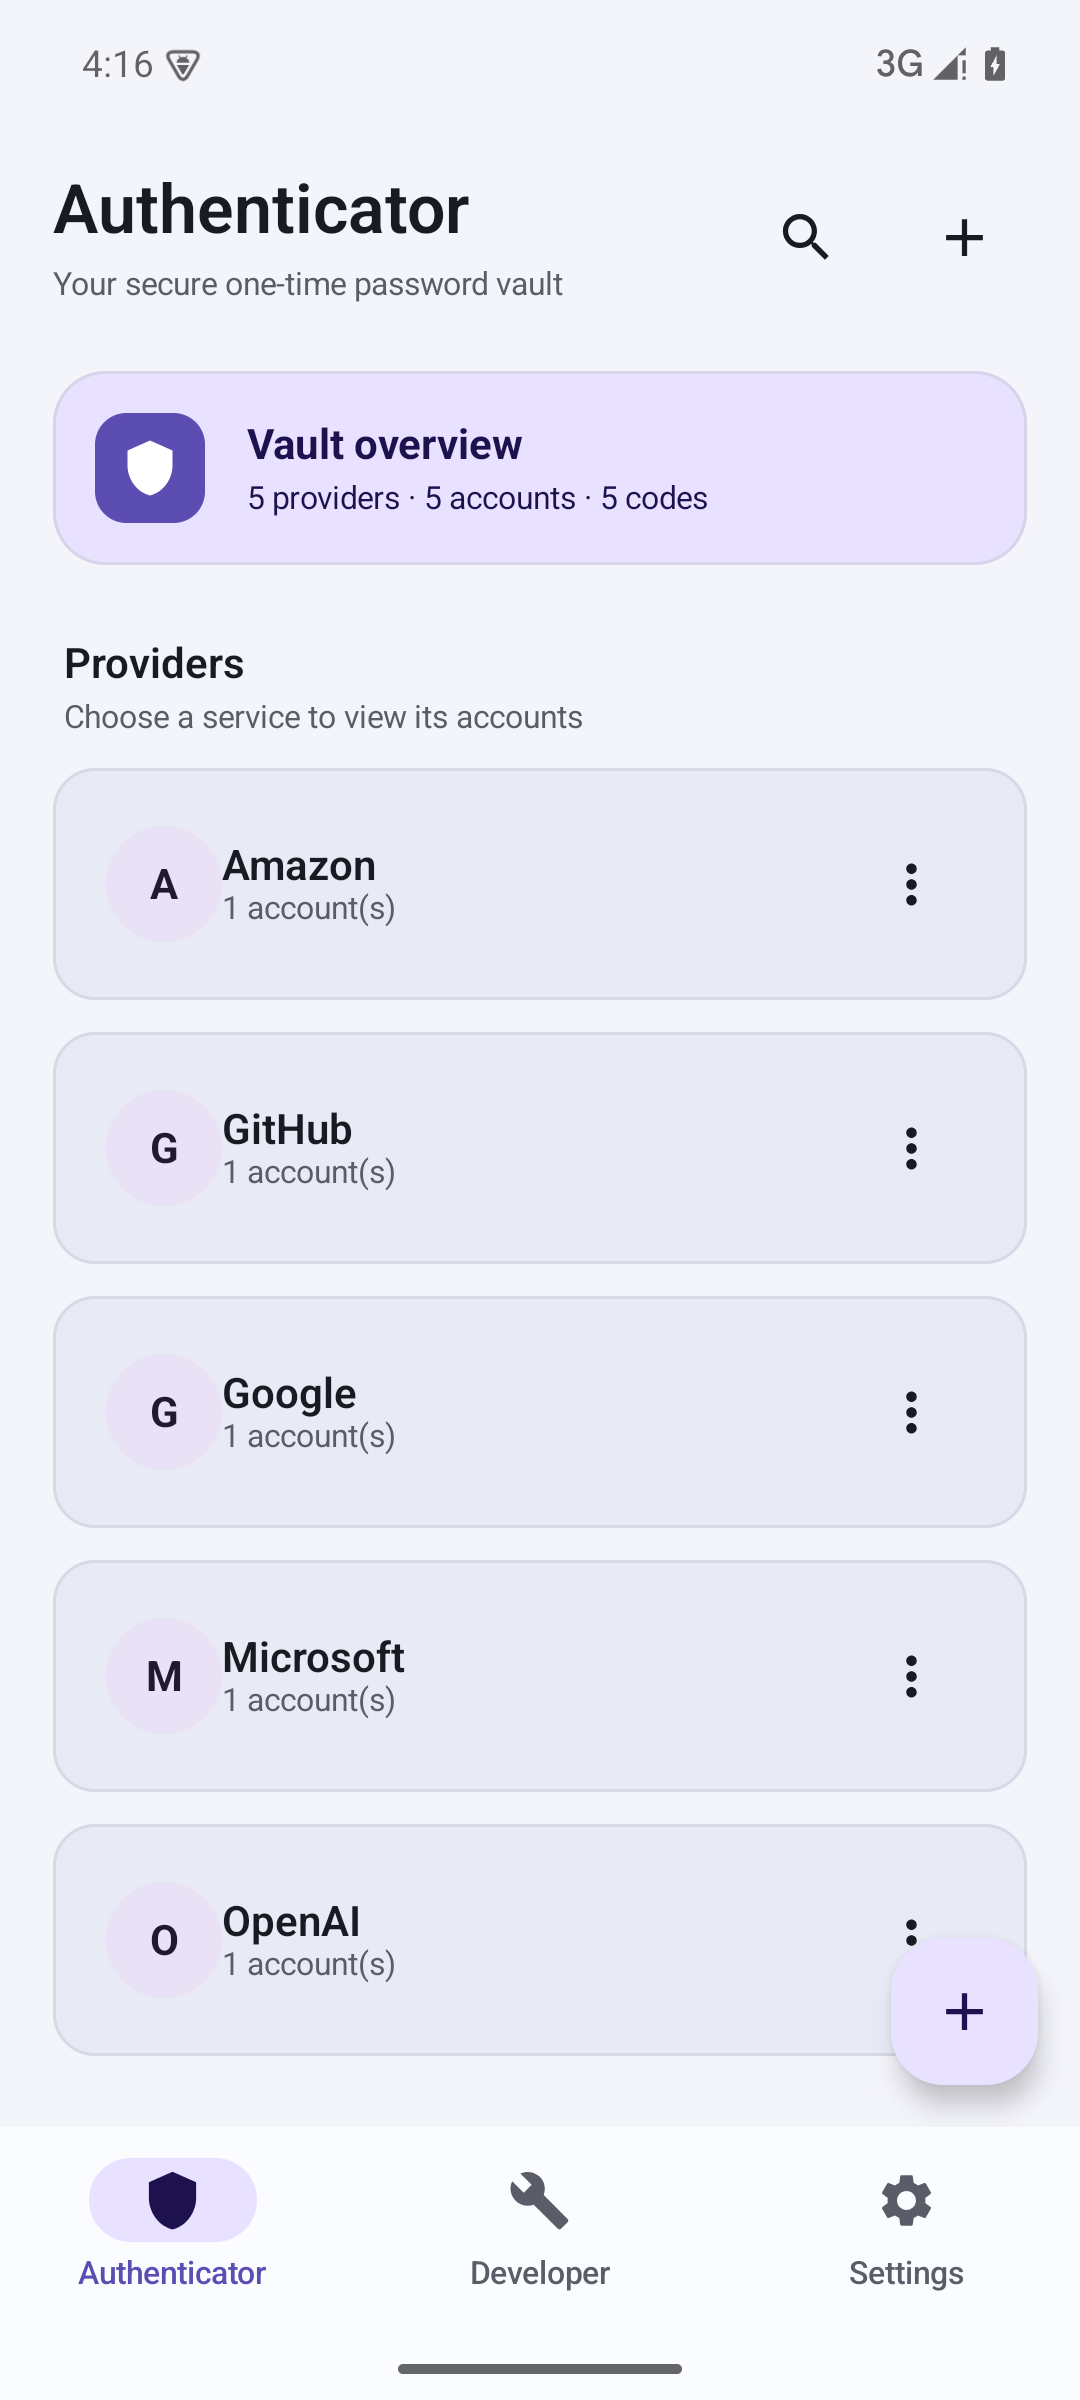
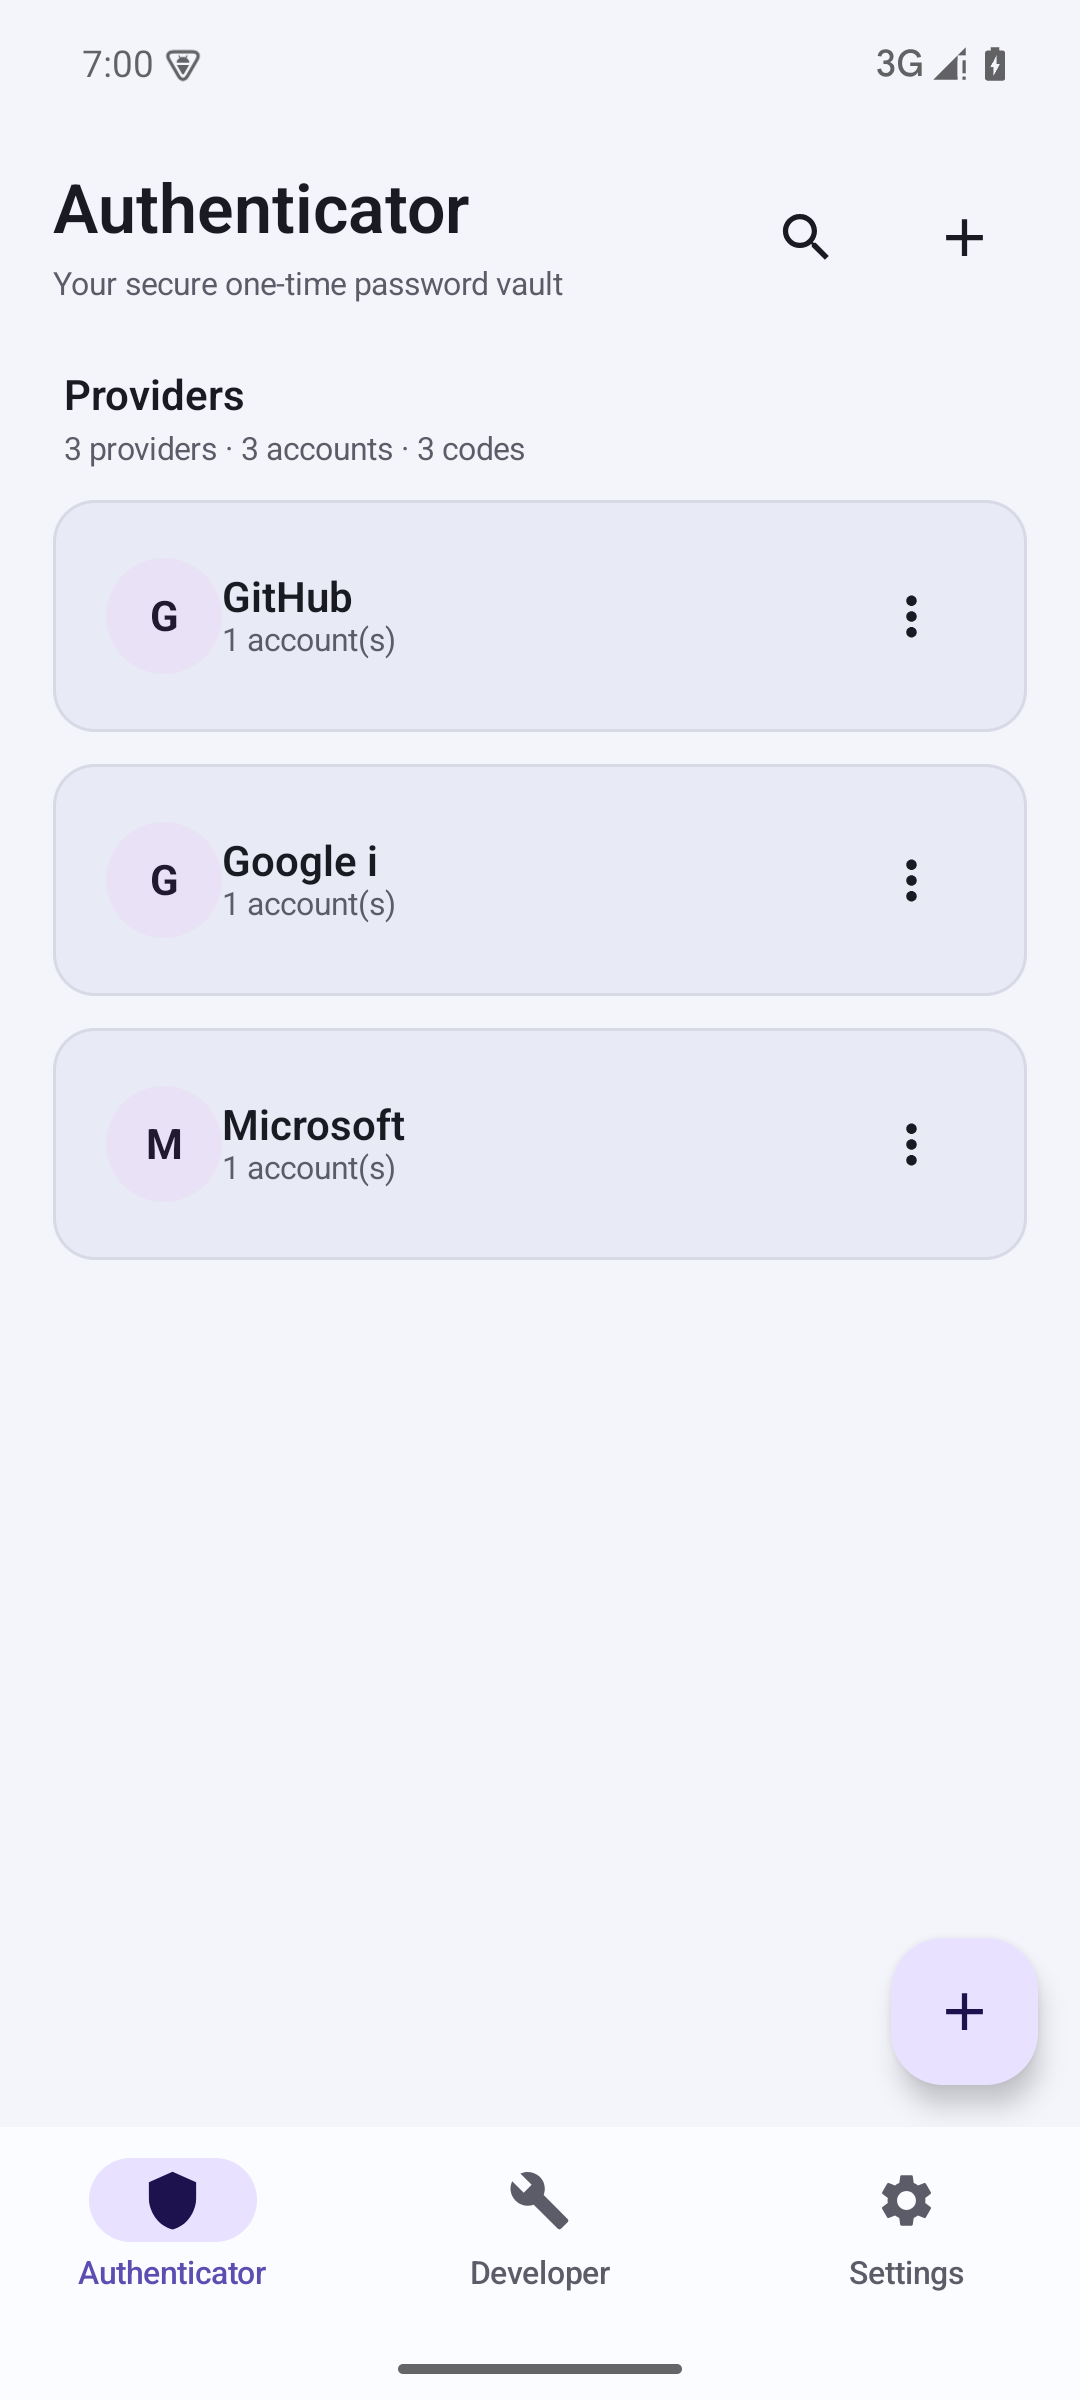
feat(ui): 移除首页 Vault overview 英雄卡，计数并入 Providers 副标题
- AuthenticatorScreen: 删除顶部 primaryContainer Shield 英雄卡 Composable，
  移除仅其使用的 RescueAuthIconBadge 引用（避免 allWarningsAsErrors 下的未用 import）
- Providers 区块副标题改为显示 'N providers · M accounts · K codes' 计数
- 删除 3 个死串 authenticator_overview_title/body/counts（中英文同步）
- 重新截 after_01_provider_list 并刷新 before/after 对照页（comparison.html）

验证：./gradlew :app:testDebugUnitTest :app:assembleDebug 通过

diff --git a/app/src/main/kotlin/com/rescueauth/v2/ui/screens/authenticator/AuthenticatorScreen.kt b/app/src/main/kotlin/com/rescueauth/v2/ui/screens/authenticator/AuthenticatorScreen.kt
@@ -62,7 +62,6 @@ import com.rescueauth.v2.ui.components.LoadingState
 import com.rescueauth.v2.ui.components.RescueAuthCard
 import com.rescueauth.v2.ui.components.RescueAuthChevron
 import com.rescueauth.v2.ui.components.RescueAuthDivider
-import com.rescueauth.v2.ui.components.RescueAuthIconBadge
 import com.rescueauth.v2.ui.components.RescueAuthInitialBadge
 import com.rescueauth.v2.ui.components.RescueAuthPageHeader
 import com.rescueauth.v2.ui.components.RescueAuthRowCard
@@ -263,50 +262,15 @@ private fun ProviderHomeContent(
         ),
         verticalArrangement = Arrangement.spacedBy(Spacing.sm),
     ) {
-        item(key = "overview") {
-            RescueAuthCard(
-                containerColor = MaterialTheme.colorScheme.primaryContainer,
-                contentPadding = Spacing.md,
-            ) {
-                Row(
-                    modifier = Modifier.fillMaxWidth(),
-                    verticalAlignment = Alignment.CenterVertically,
-                    horizontalArrangement = Arrangement.spacedBy(Spacing.md),
-                ) {
-                    RescueAuthIconBadge(
-                        icon = Icons.Filled.Shield,
-                        size = 42.dp,
-                        iconSize = 23.dp,
-                        containerColor = MaterialTheme.colorScheme.primary,
-                        contentColor = MaterialTheme.colorScheme.onPrimary,
-                    )
-                    Column(modifier = Modifier.weight(1f)) {
-                        Text(
-                            text = stringResource(R.string.authenticator_overview_title),
-                            style = MaterialTheme.typography.titleMedium,
-                            fontWeight = FontWeight.Bold,
-                            color = MaterialTheme.colorScheme.onPrimaryContainer,
-                        )
-                        Spacer(modifier = Modifier.height(Spacing.xxs))
-                        Text(
-                            text = stringResource(
-                                R.string.authenticator_overview_counts,
-                                providerCount,
-                                accountCount,
-                                credentialCount,
-                            ),
-                            style = MaterialTheme.typography.bodySmall,
-                            color = MaterialTheme.colorScheme.onPrimaryContainer,
-                        )
-                    }
-                }
-            }
-        }
         item(key = "providers-heading") {
             RescueAuthSectionHeader(
                 title = stringResource(R.string.authenticator_providers_heading),
-                subtitle = stringResource(R.string.authenticator_providers_subtitle),
-                modifier = Modifier.padding(top = Spacing.md),
+                subtitle = stringResource(
+                    R.string.authenticator_providers_subtitle,
+                    providerCount,
+                    accountCount,
+                    credentialCount,
+                ),
             )
         }
         items(providers, key = { it.id }) { provider ->

diff --git a/screenshots/comparison.html b/screenshots/comparison.html
@@ -84,17 +84,17 @@
 
     <section>
       <h2>2. Provider List</h2>
-      <p class="note">Cooler blue-violet tonal surfaces and rounder cards.</p>
+      <p class="note">Cooler blue-violet tonal surfaces, rounder 20dp cards, and the top "Vault overview" hero card removed — provider/account/code counts now live in the Providers section subtitle.</p>
       <div class="pair">
         <div class="shot">
           <h3>Before</h3>
           <img src="populated_provider_list.png" alt="Before provider list" />
-          <p class="caption">Muddyer surface colors, flatter card hierarchy.</p>
+          <p class="caption">Muddyer surface colors, flatter card hierarchy, top purple hero/overview card.</p>
         </div>
         <div class="shot">
           <h3>After</h3>
           <img src="after_01_provider_list.png" alt="After provider list" />
-          <p class="caption">Clean surfaceContainer layers, 20dp rounded cards.</p>
+          <p class="caption">Clean surfaceContainer layers, 20dp rounded cards. Counts merged into subtitle: "3 providers · 3 accounts · 3 codes".</p>
         </div>
       </div>
     </section>
